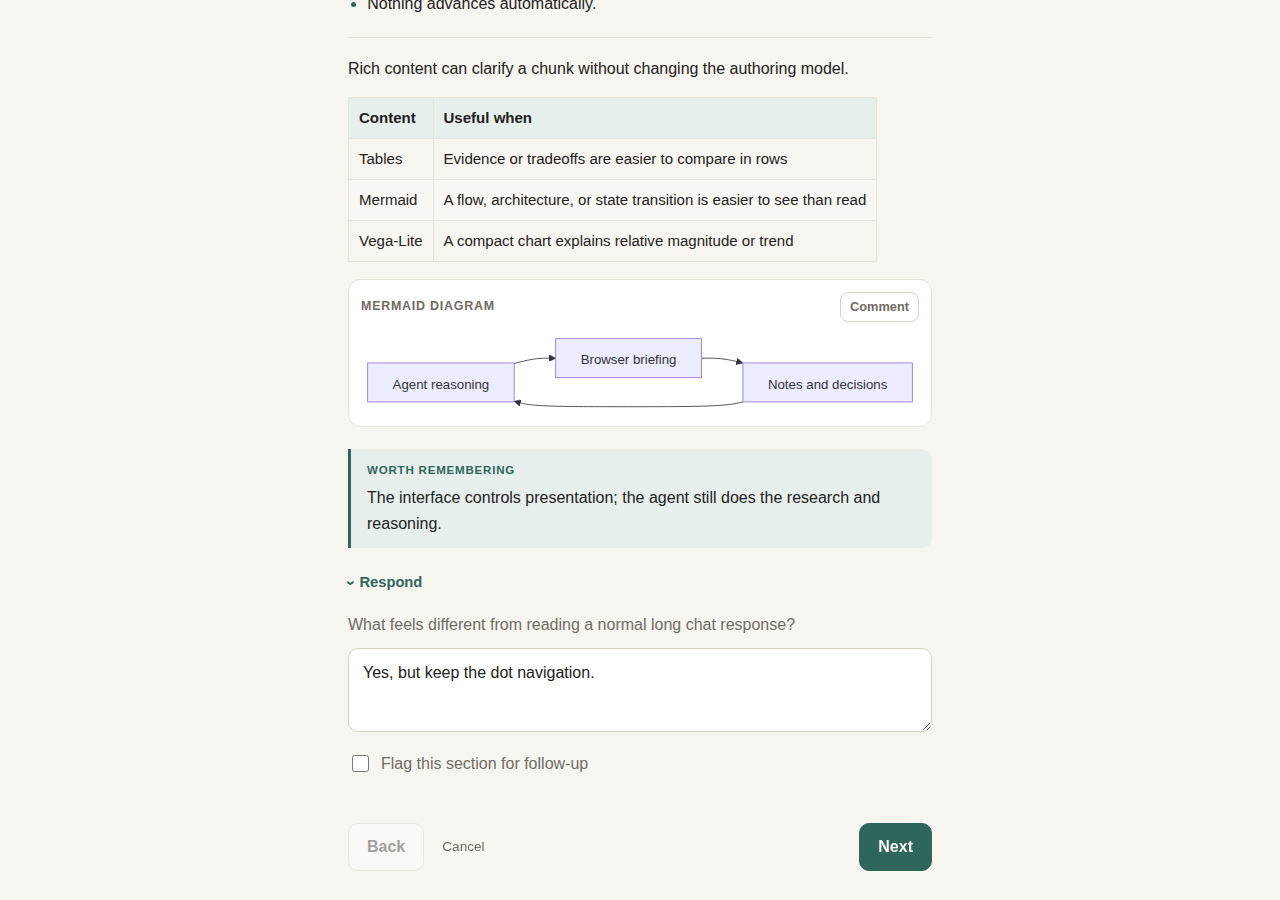
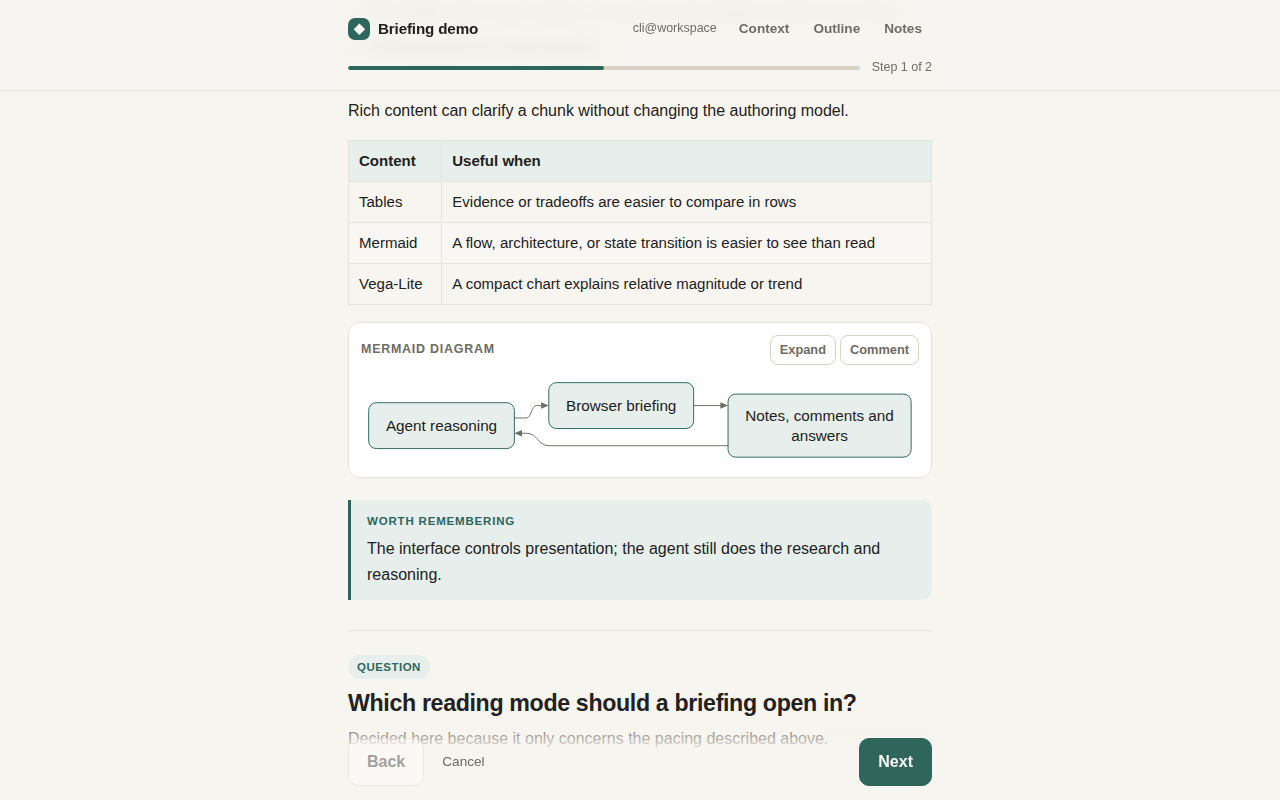
Refresh the README tour and script its capture
The screenshots and walkthrough GIF still showed decision cards, the Respond box and the
overall response. mise run docs:screenshots now recaptures them from assets/demo.json with
Playwright (and ffmpeg for the GIF), adding the Outline sidebar and dark mode. The isolated
server the browser tests use moves to tests/browser/serve.mjs so both share it, and no longer
stamps the calling agent's session on the briefing.

diff --git a/README.md b/README.md
@@ -8,7 +8,7 @@ option or answer in your own words), a free-standing Notes panel, and a review s
 you send it back.
 Only what you wrote returns to the agent.
 
-![Walkthrough: read a chunk, select a sentence and comment on it, open the Context panel, pick a decision, review, submit](docs/screenshots/tour.gif)
+![Walkthrough: read a chunk, comment on a passage, open the Context panel, answer a question, review what goes back](docs/screenshots/tour.gif)
 
 ```mermaid
 flowchart LR
@@ -36,10 +36,12 @@ flowchart LR
 
 | | |
 |---|---|
-| ![Inline comment pinned in the margin next to the highlighted passage](docs/screenshots/03-inline-comment.png) | ![The Context panel: goal, things to keep in mind, running summary, open questions](docs/screenshots/04-context.png) |
+| ![A comment pinned next to its highlighted passage](docs/screenshots/03-inline-comment.png) | ![The Context panel: goal, things to keep in mind, running summary, open questions](docs/screenshots/04-context.png) |
 | Select text, press **Comment**, and the note lives next to the passage. | The **Context** panel keeps the goal and stable facts one click away. |
-| ![A decision card with a recommended option and tradeoffs](docs/screenshots/05-decision.png) | ![The review screen listing every answer, decision, and comment before submit](docs/screenshots/06-review.png) |
-| Decisions come with a recommendation and honest tradeoffs. | The review screen shows exactly what goes back, and nothing else. |
+| ![A question with its recommended option chosen and room to answer in your own words](docs/screenshots/05-question.png) | ![The review screen listing answers, unresolved questions and comments before submit](docs/screenshots/06-review.png) |
+| Questions sit under the section they depend on, with a recommendation and honest tradeoffs. Answers are optional. | The review screen shows exactly what goes back; a skipped question goes back as unresolved. |
+| ![The Outline sidebar listing each section with its open questions](docs/screenshots/07-outline.png) | ![A Mermaid diagram rendered in dark mode](docs/screenshots/08-dark.png) |
+| The **Outline** jumps to any section and shows what's still open; **Notes** shares the sidebar. | Light and dark follow your system, diagrams included. |
 | ![A Mermaid diagram inside a chunk with its own Comment button](docs/screenshots/02-rich-content.png) | ![A Vega-Lite bar chart inside a chunk](docs/screenshots/02b-chart.png) |
 | Markdown, GFM tables, code, and Mermaid diagrams render inline; nodes and edges are commentable, and a diagram expands to fill the screen. | Vega-Lite charts too, all served from the binary with no CDN. |
 
@@ -306,6 +308,7 @@ mise install         # rust (+ clippy, rustfmt, release targets), zig, cargo-zig
 mise run check       # full project gate: format, generated skill, clippy -D warnings, tests, Pi extension
 mise run pi:check    # focused Pi extension typecheck/smoke
 mise run fix         # format, clippy --fix, regenerate skill
+mise run docs:screenshots  # recapture the README screenshots and tour.gif from assets/demo.json
 mise use -g github:JacobHayes/briefing@latest   # or: cargo install --path . --locked
 mise run assets:update
 cargo zigbuild --release --target aarch64-apple-darwin   # any release target, from Linux
